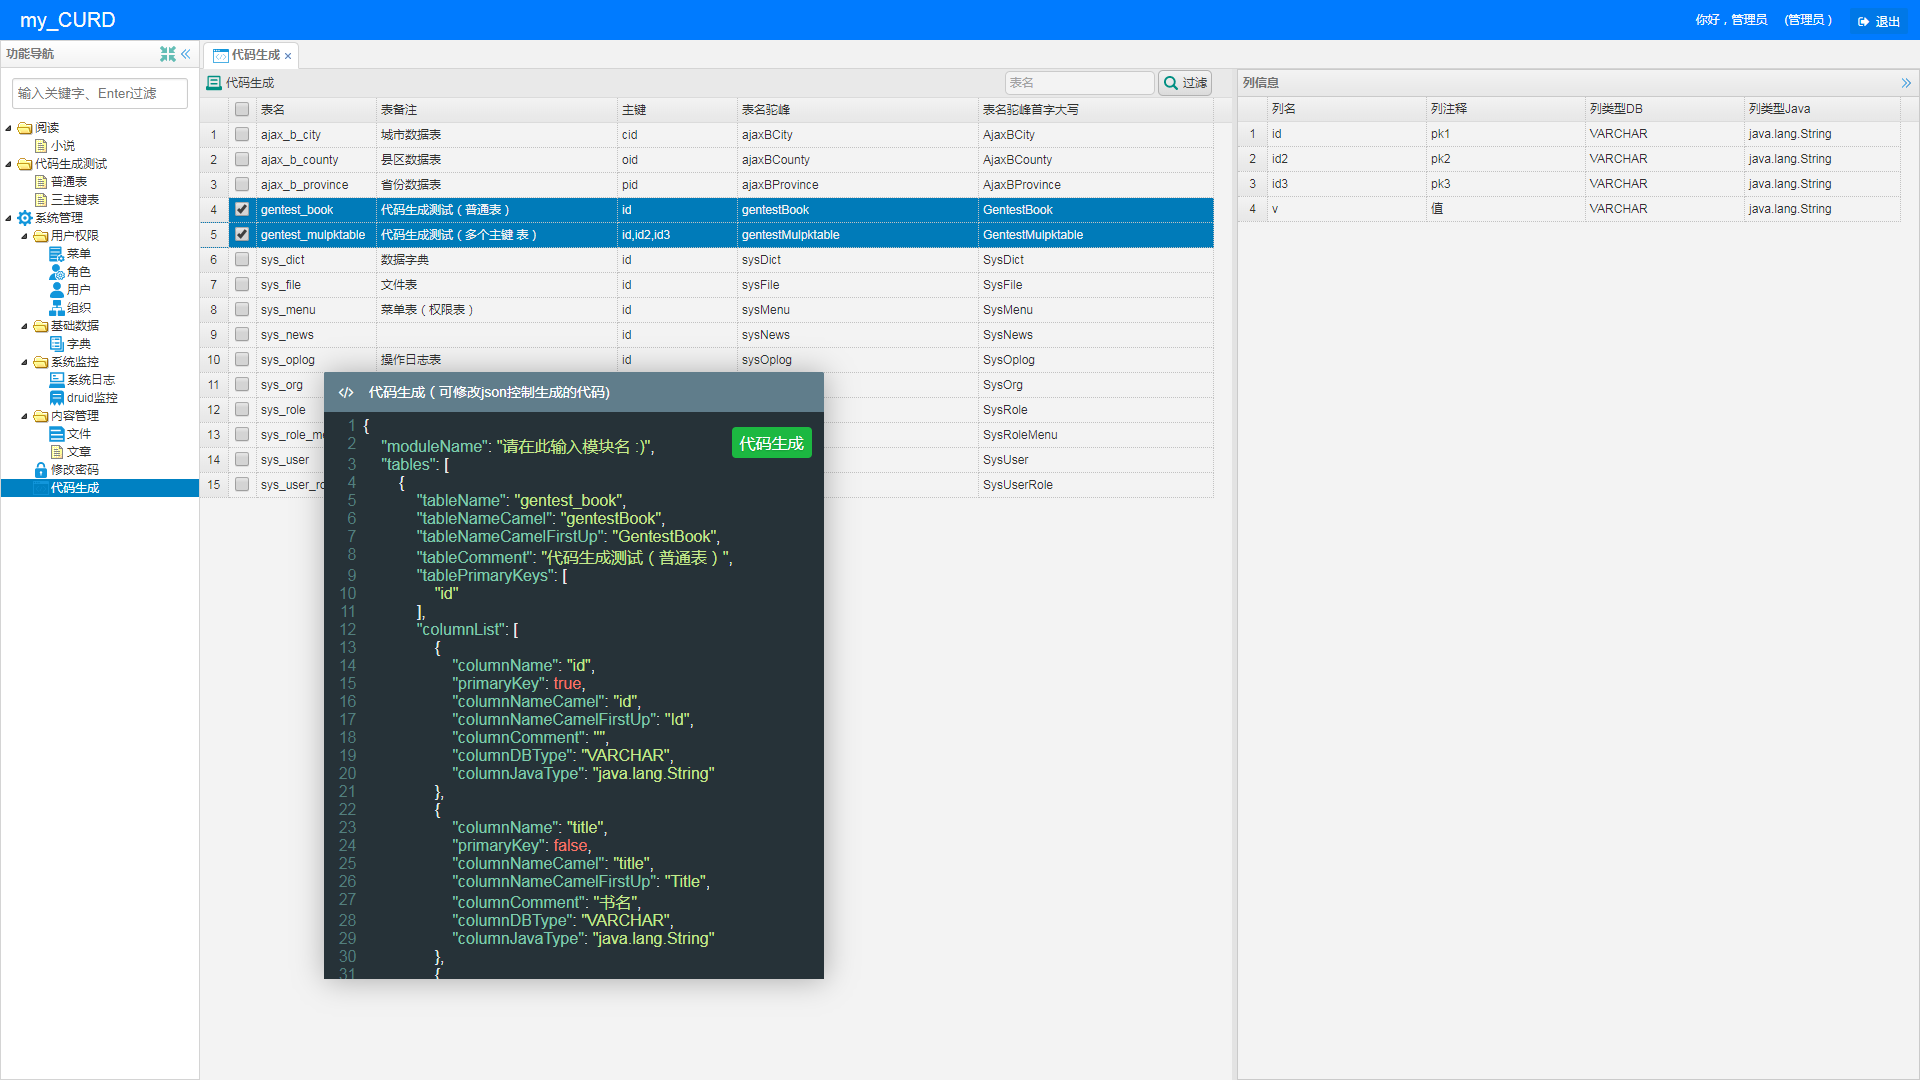
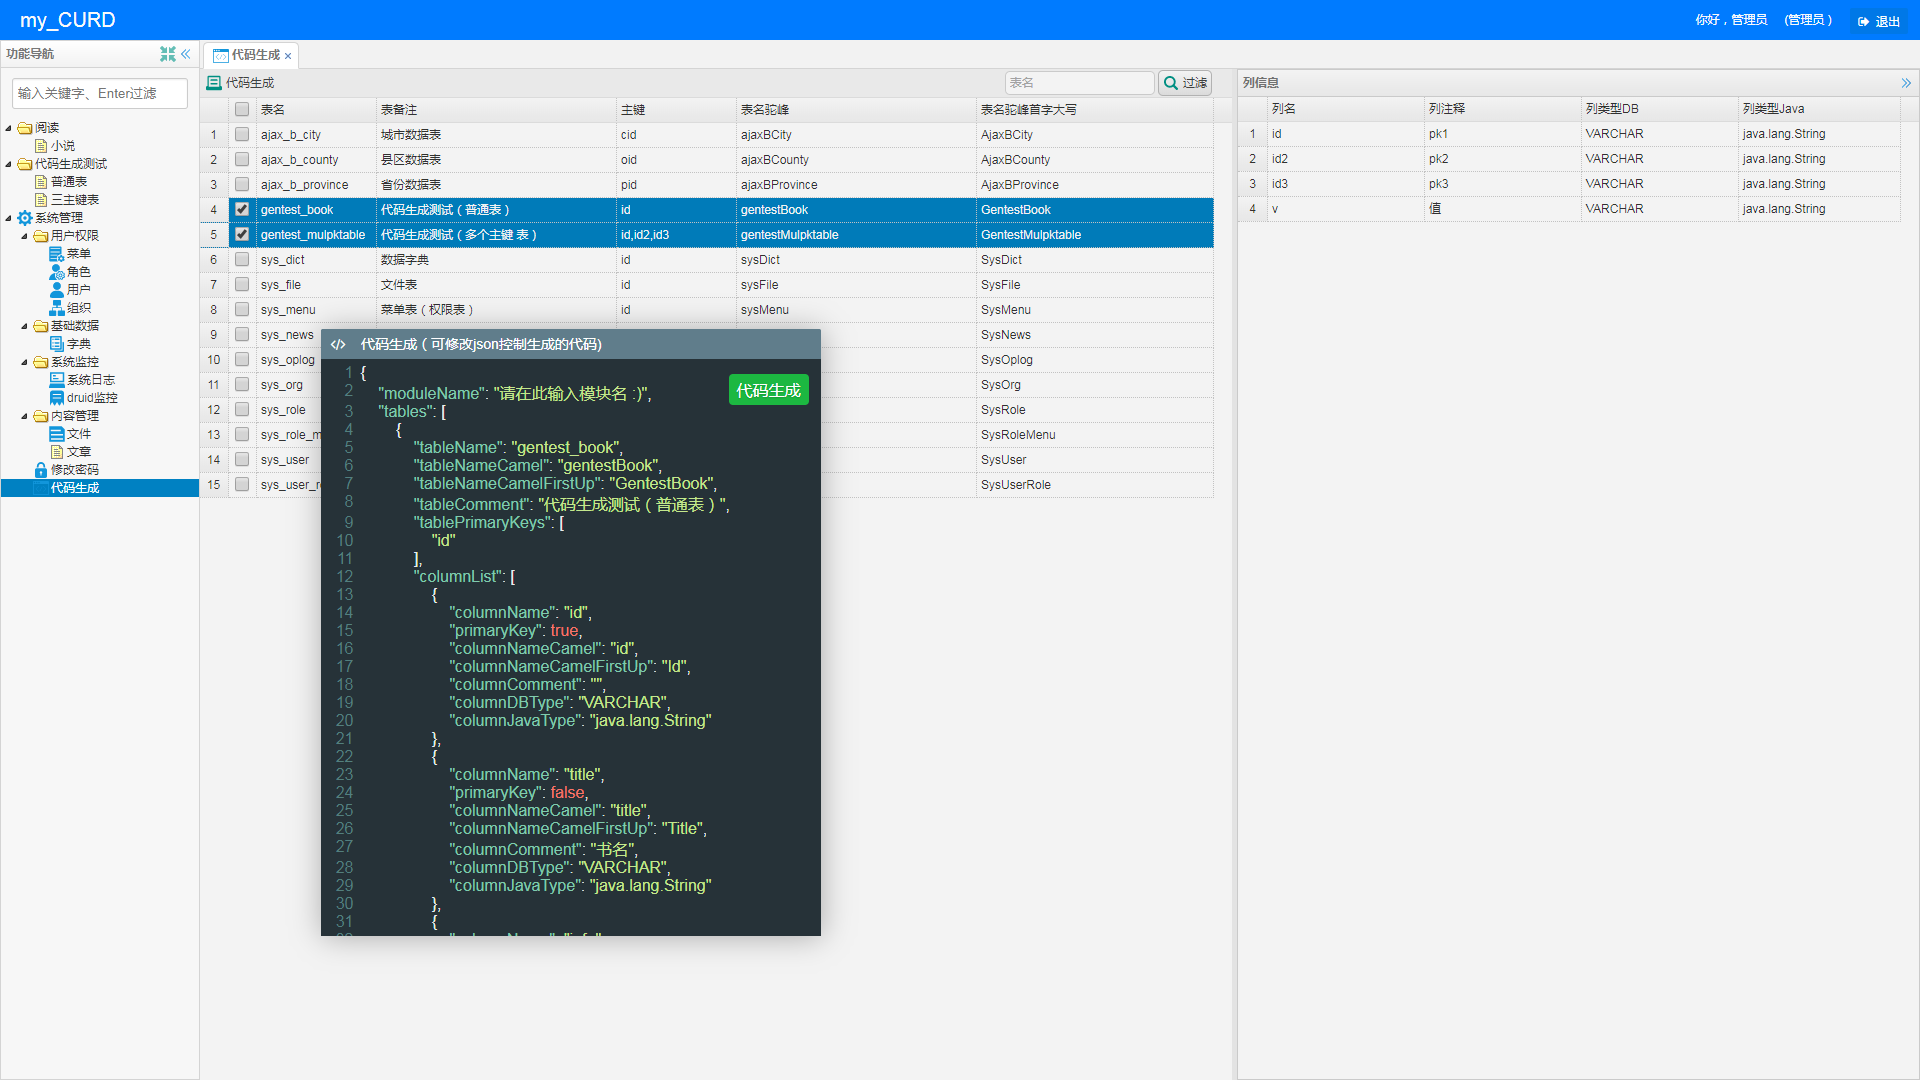
edit

diff --git a/src/main/webapp/res/js/layer-tools.js b/src/main/webapp/res/js/layer-tools.js
@@ -63,7 +63,7 @@ var layerTools = layerTools ||{};
             skin: 'layui-layer-lan',
             shadeClose: true, //
             area: area?area:"",
-            title:[title,'background:#607D8B; line-height:40px;height:40px;padding: 0 15px'],
+            title:[title,'background:#607D8B; line-height:30px;height:30px;padding: 0 10px'],
             closeBtn: 0, //不显示关闭按钮
             content: content,
             btn: btn,//按钮
@@ -107,7 +107,7 @@ var layerTools = layerTools ||{};
         layer.confirm(msg, {
            /* skin: 'layui-layer-molv',*/
             icon: icon,
-            title:title,
+            title:[title,'background:#607D8B; color:white; line-height:30px;height:30px;padding: 0 10px'],
             btn: ['确定','取消']
         }, function(){
             if(yesFun!=null){

diff --git a/src/main/webapp/WEB-INF/views/main.html b/src/main/webapp/WEB-INF/views/main.html
@@ -83,7 +83,7 @@
                 </a>
 			</span>
     </div>
-    <div data-options="region:'west',split:false" title="功能导航" style="width:200px;" tools="#leftTB">
+    <div data-options="region:'west',split:false" title="功能导航" style=" width:200px;background-color: #f7f7f7" tools="#leftTB">
         <div class="input-control">
             <input type="text" id="filterInput" placeholder="输入关键字、Enter过滤">
         </div>
